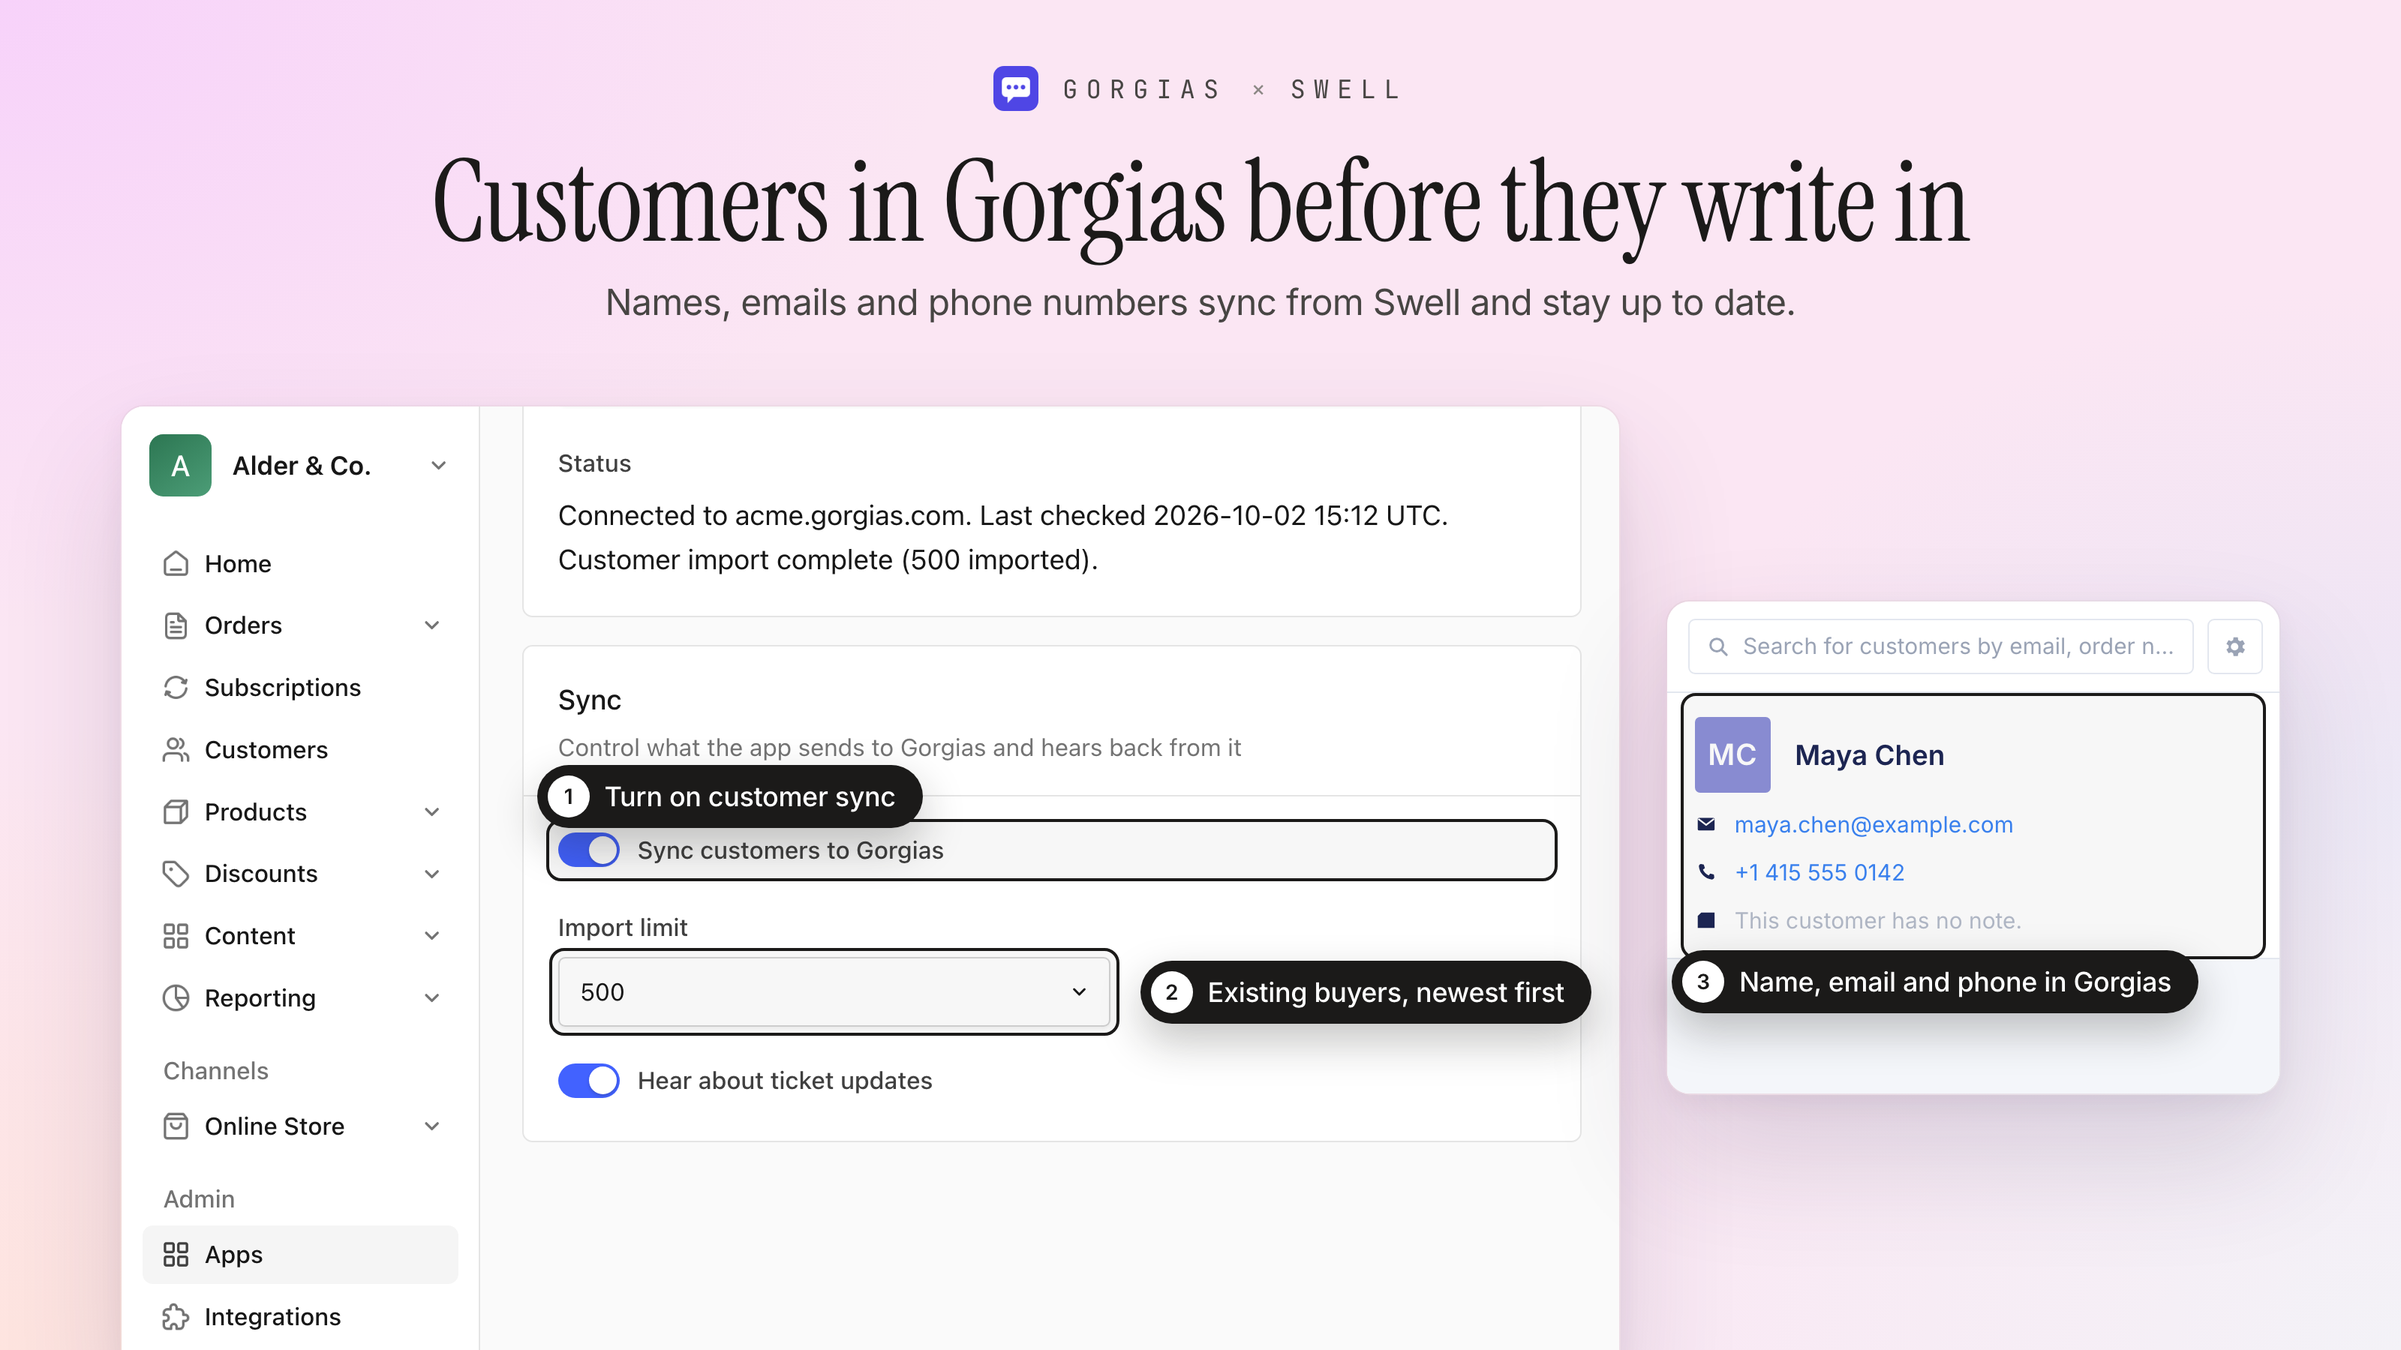
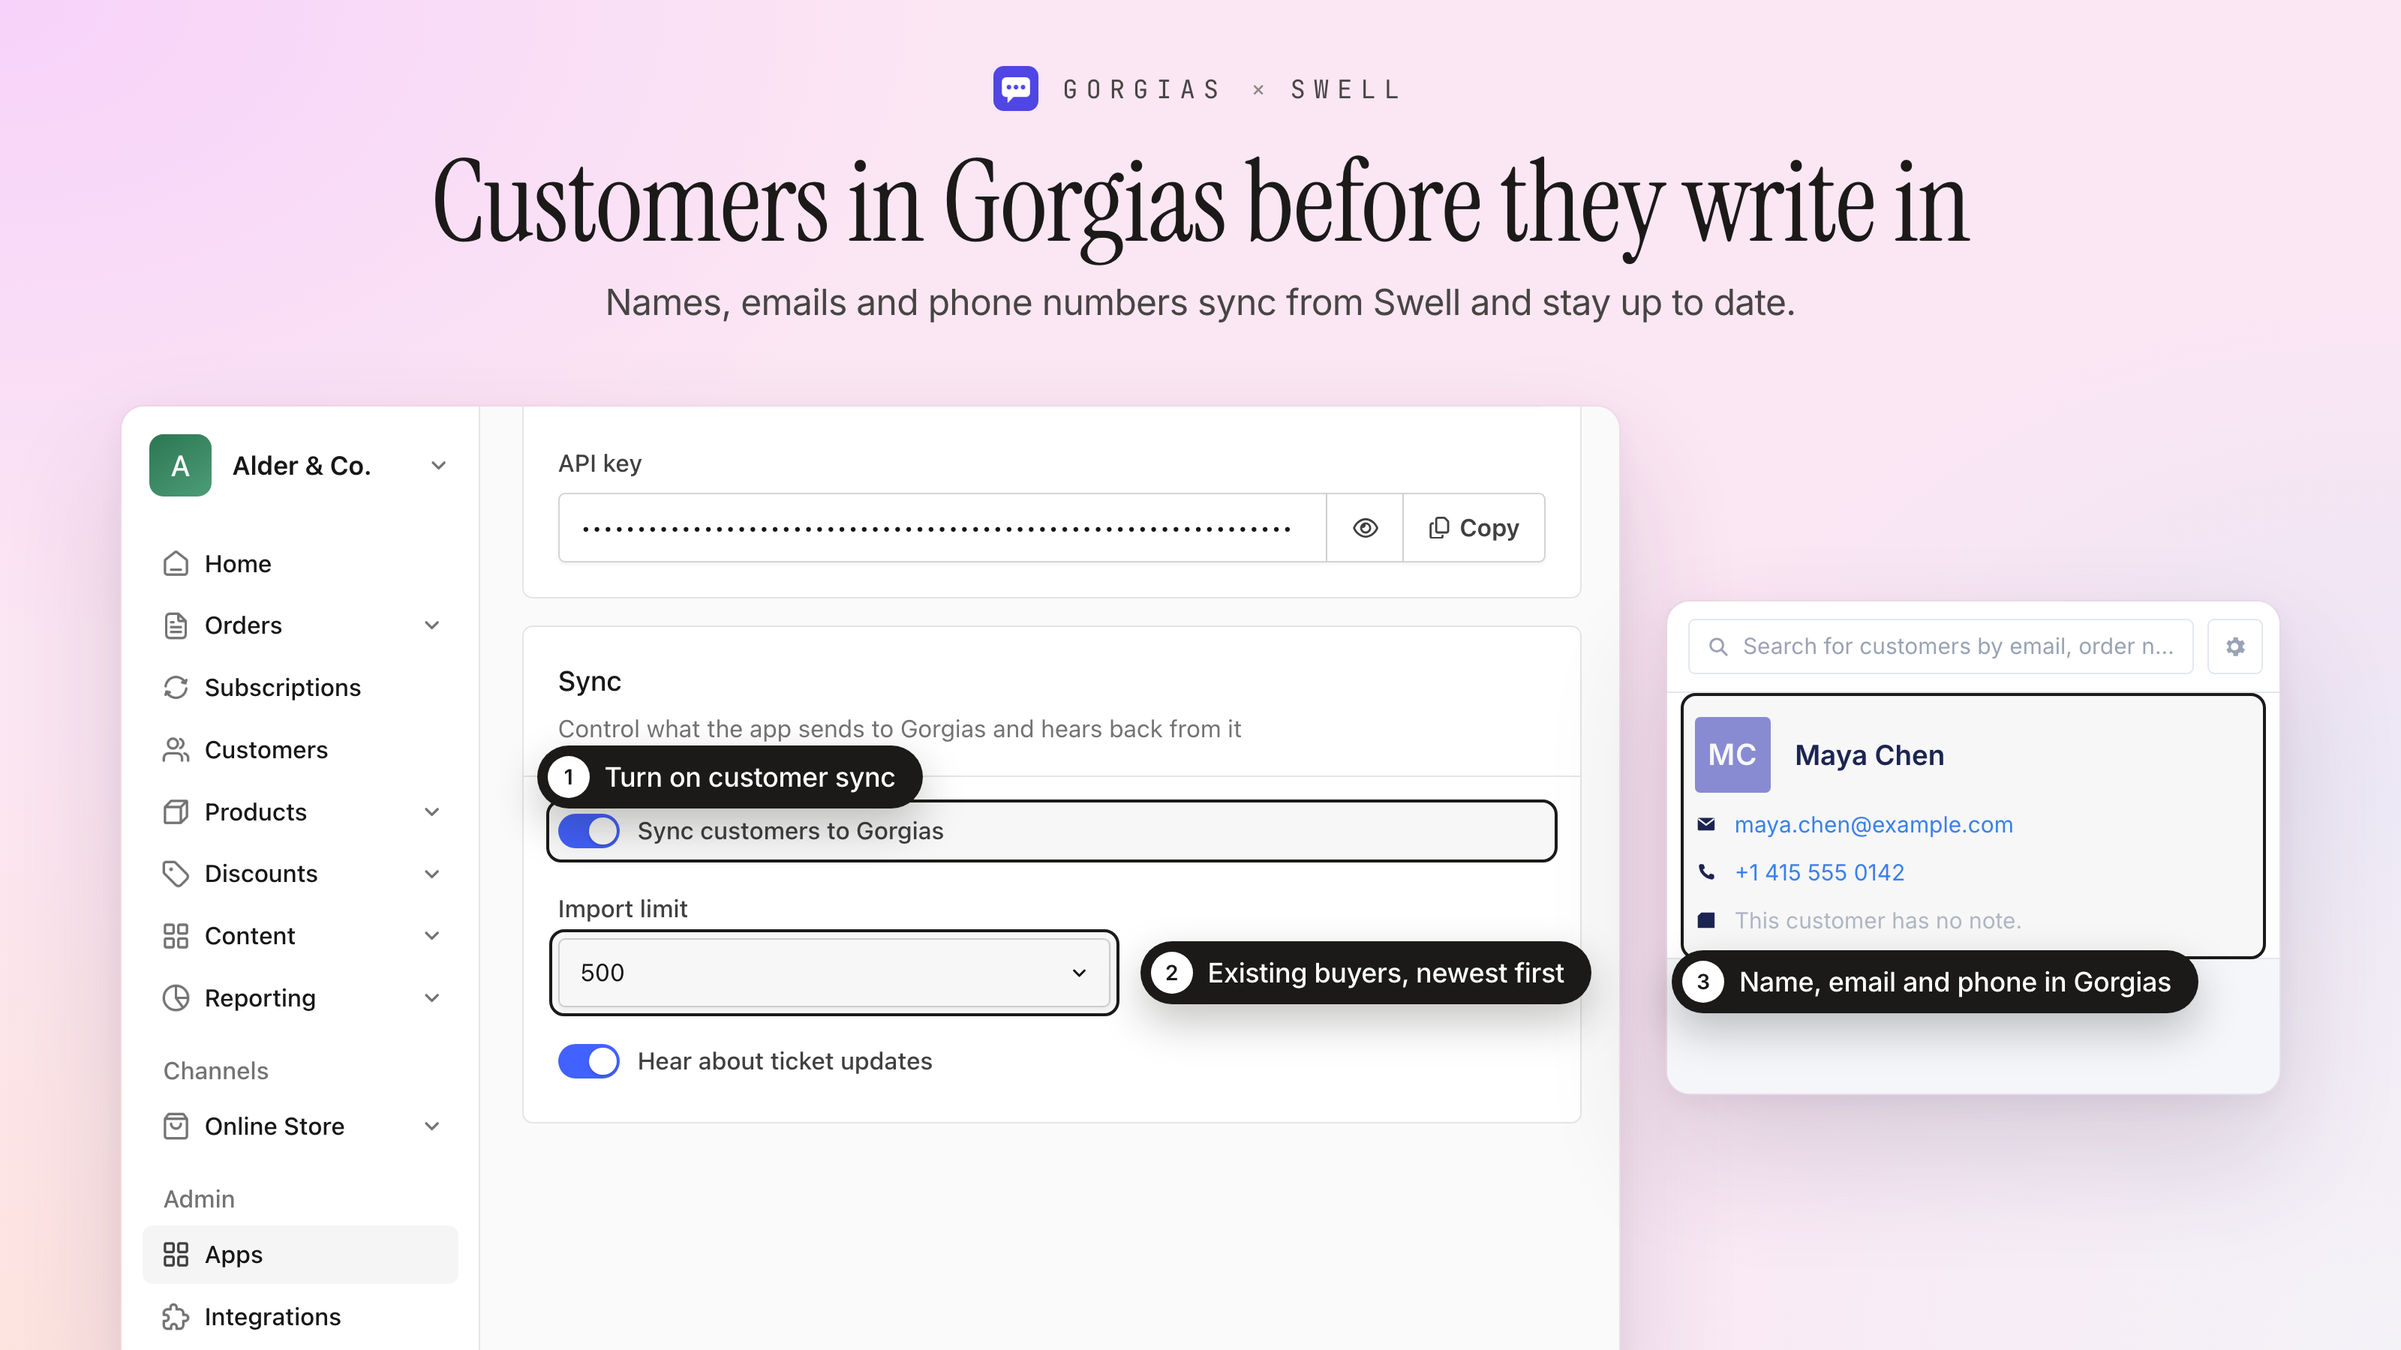
Remove the Status setting and redraw listing images 3 and 4 without it

Changed region(s): [[0.2188, 0.4978, 0.6875, 0.8089], [0.2188, 0.3422, 0.625, 0.4356]]

diff --git a/functions/lib/connect.ts b/functions/lib/connect.ts
@@ -1,8 +1,7 @@
 // Dashboard-driven connection: the merchant saves their Gorgias API key in the
 // app settings, and reconcile() (run every minute by functions/reconcile.ts)
 // provisions Gorgias when the settings change, re-checks the connection
-// hourly, keeps the customer import moving, and reports the outcome in the
-// read-only connection.status setting.
+// hourly and keeps the customer import moving.
 
 import { AppSecrets, SECRET_HEADER, appSecrets, sha256Hex } from './auth';
 import { GorgiasClient, GorgiasError, connectionFromSettings } from './gorgias';
@@ -14,9 +13,6 @@ const HEALTH_CHECK_MS = 60 * 60 * 1000;
 const RETRY_AFTER_ERROR_MS = 15 * 60 * 1000;
 const IMPORT_STALL_MS = 10 * 60 * 1000;
 
-const NOT_CONNECTED =
-  'Not connected. Enter your Gorgias subdomain, agent email and API key, then save.';
-
 export interface ReconcileResult {
   status: 'incomplete' | 'connected' | 'error';
   provisioned?: boolean;
@@ -26,10 +22,6 @@ export interface ReconcileResult {
 
 function elapsed(now: Date, date?: string | null): number {
   return date ? now.getTime() - Date.parse(date) : Infinity;
-}
-
-function formatTime(date: Date): string {
-  return `${date.toISOString().slice(0, 16).replace('T', ' ')} UTC`;
 }
 
 // The app public key differs per store and per environment, so a short hash of
@@ -50,26 +42,6 @@ export function describeError(err: unknown): string {
     return `Gorgias returned an error (${err.status})`;
   }
   return String((err as Error)?.message || err).slice(0, 200);
-}
-
-// Best effort: a failed status write must not stop the connection itself.
-// The settings record is addressed by its own id (the app's object id): the
-// platform only lets an app write its own settings without write_settings when
-// the path uses that id, not the app slug.
-async function writeStatus(
-  req: SwellRequest,
-  settings: SwellSettings,
-  status: string,
-): Promise<void> {
-  if (settings?.connection?.status === status) return;
-  const target = settings?.id || req.appId;
-  try {
-    await req.swell.put(`/settings/${target}/connection`, { status });
-  } catch (err) {
-    console.error(
-      `Could not write connection status to /settings/${target}: ${String(err)}`,
-    );
-  }
 }
 
 // Calls the sync route through the gateway. Fire-and-forget: the import chain
@@ -128,23 +100,6 @@ async function continueImport(
   return { state, phase: 'running' };
 }
 
-function connectedStatus(
-  state: ConnectionState,
-  importPhase: string,
-): string {
-  const checked = state.date_checked
-    ? ` Last checked ${formatTime(new Date(state.date_checked))}.`
-    : '';
-  const synced = state.backfill_synced || 0;
-  const imported =
-    importPhase === 'off'
-      ? ''
-      : importPhase === 'done'
-        ? ` Customer import complete (${synced} imported).`
-        : ` Customer import in progress (${synced} imported so far).`;
-  return `Connected to ${state.gorgias_account}.${checked}${imported}`;
-}
-
 export async function reconcile(
   req: SwellRequest,
   { force = false }: { force?: boolean } = {},
@@ -159,13 +114,12 @@ export async function reconcile(
   // is derived from them, so it stops being accepted at once.
   const connection = connectionFromSettings(settings);
   if (!connection) {
-    await writeStatus(req, settings, NOT_CONNECTED);
     return { status: 'incomplete' };
   }
   if (!req.publicKey) {
     const error =
       'This environment has no app public key, so Gorgias could not reach Swell. Reinstall the app.';
-    await writeStatus(req, settings, `Could not connect: ${error}`);
+    console.error(`Gorgias connection failed: ${error}`);
     return { status: 'error', error };
   }
 
@@ -209,7 +163,6 @@ export async function reconcile(
     elapsed(now, state.date_last_attempt) < RETRY_AFTER_ERROR_MS;
 
   if (!force && backingOff) {
-    await writeStatus(req, settings, `Could not connect: ${state.last_error}`);
     return { status: 'error', error: state.last_error || undefined };
   }
 
@@ -253,12 +206,10 @@ export async function reconcile(
         last_attempt_fingerprint: fingerprint,
         date_last_attempt: now.toISOString(),
       });
-      await writeStatus(req, settings, `Could not connect: ${error}`);
       return { status: 'error', error };
     }
   }
 
   const imported = await continueImport(req, settings, state, secrets, subdomain, now);
-  await writeStatus(req, settings, connectedStatus(imported.state, imported.phase));
   return { status: 'connected', provisioned, import: imported.phase };
 }

diff --git a/test/unit/connect.test.ts b/test/unit/connect.test.ts
@@ -24,14 +24,11 @@ function connected(settings: SwellData = {}) {
 describe('reconcile', () => {
   afterEach(() => vi.unstubAllGlobals());
 
-  it('asks for credentials when settings are incomplete', async () => {
+  it('stops when settings are incomplete', async () => {
     const { calls } = mockFetch();
-    const { swell, db } = createFakeSwell({ settings: { connection: {} } });
+    const { swell } = createFakeSwell({ settings: { connection: {} } });
     const result = await reconcile(createAppRequest({ swell }));
     expect(result.status).toBe('incomplete');
-    expect(db.settings.connection.status).toBe(
-      'Not connected. Enter your Gorgias subdomain, agent email and API key, then save.',
-    );
     expect(calls).toHaveLength(0);
   });
 
@@ -46,14 +43,19 @@ describe('reconcile', () => {
 
   it('reports a missing public key instead of provisioning', async () => {
     const { calls } = mockFetch();
-    const { swell, db } = connected();
+    const log = vi.spyOn(console, 'error').mockImplementation(() => {});
+    const { swell } = connected();
     const result = await reconcile(createAppRequest({ swell, publicKey: null }));
     expect(result.status).toBe('error');
-    expect(db.settings.connection.status).toMatch(/^Could not connect/);
+    expect(result.error).toMatch(/no app public key/);
+    expect(log).toHaveBeenCalledWith(
+      expect.stringMatching(/^Gorgias connection failed: .*no app public key/),
+    );
     expect(calls).toHaveLength(0);
+    log.mockRestore();
   });
 
-  it('connects on first run: provisions with a derived secret and reports status', async () => {
+  it('connects on first run: provisions with a derived secret', async () => {
     const { calls } = mockFetch();
     const { swell, db } = connected();
     const result = await reconcile(createAppRequest({ swell }));
@@ -65,7 +67,6 @@ describe('reconcile', () => {
       gorgias_account: 'acme.gorgias.com',
       last_error: null,
     });
-    expect(db.settings.connection.status).toMatch(/^Connected to acme\.gorgias\.com\./);
 
     gorgiasCalls(calls).forEach((c) => expect(c.headers.Authorization).toBe(BASIC_AUTH));
     const created = calls.find(
@@ -137,9 +138,7 @@ describe('reconcile', () => {
     const { swell, db } = connected();
     const result = await reconcile(createAppRequest({ swell }));
     expect(result.status).toBe('error');
-    expect(db.settings.connection.status).toBe(
-      'Could not connect: Gorgias rejected the agent email or API key (401)',
-    );
+    expect(result.error).toBe('Gorgias rejected the agent email or API key (401)');
 
     const retry = mockFetch();
     await reconcile(createAppRequest({ swell }));
@@ -201,19 +200,6 @@ describe('reconcile', () => {
     expect(kick.body).toEqual({ page: 4 });
   }, 20000);
 
-  it('writes the status to the settings record by its own id', async () => {
-    mockFetch();
-    const { swell } = connected({ id: '6aa81465935d8f001217ad00' });
-    await reconcile(createAppRequest({ swell }));
-    const statusWrites = swell.put.mock.calls
-      .map(([url]) => url)
-      .filter((url) => url.startsWith('/settings/'));
-    expect(statusWrites.length).toBeGreaterThan(0);
-    statusWrites.forEach((url) =>
-      expect(url).toBe('/settings/6aa81465935d8f001217ad00/connection'),
-    );
-  }, 20000);
-
   it('forgets old ids when switching helpdesks', async () => {
     mockFetch();
     const { swell, db } = connected();
@@ -247,18 +233,6 @@ describe('reconcile', () => {
     );
     const result = await reconcile(createAppRequest({ swell }));
     expect(result.status).toBe('error');
-    expect(db.settings.connection.status).toMatch(/deactivated in Gorgias/);
-  }, 20000);
-
-  it('keeps going when the status write fails', async () => {
-    mockFetch();
-    const { swell } = connected();
-    const put = swell.put.getMockImplementation()!;
-    swell.put.mockImplementation(async (url: string, data: SwellData) => {
-      if (url.startsWith('/settings/')) throw new Error('403 forbidden');
-      return put(url, data);
-    });
-    const result = await reconcile(createAppRequest({ swell }));
-    expect(result.status).toBe('connected');
+    expect(result.error).toMatch(/deactivated in Gorgias/);
   }, 20000);
 });

diff --git a/functions/lib/gorgias.ts b/functions/lib/gorgias.ts
@@ -319,7 +319,7 @@ export function hasConnection(settings: SwellSettings): boolean {
 
 // Rejected credentials are a configuration problem, not a transient failure:
 // event handlers skip instead of throwing, so the platform doesn't retry and
-// eventually auto-disable them. reconcile() reports it in the status.
+// eventually auto-disable them. reconcile() logs it and keeps it as the last error.
 export function isAuthError(err: unknown): boolean {
   return (
     err instanceof GorgiasError && (err.status === 401 || err.status === 403)

diff --git a/README.md b/README.md
@@ -11,7 +11,6 @@ A Swell integration app that connects a Swell store to the [Gorgias](https://www
 ```
 Merchant saves settings ──► reconcile (cron, every minute)
                               ├─► Gorgias HTTP integration "Swell" + ticket sidebar widget
-                              ├─► connection.status setting ("Connected to acme.gorgias.com …")
                               └─► sync (self-chaining import of existing customers)
 
 Swell account/order events ──► sync-customer ──► Gorgias customer (upsert by external_id / email)
@@ -29,7 +28,7 @@ An OAuth "Connect" flow was built and set aside: it needs a Gorgias partner app,
 
 | Function | Trigger | Purpose |
 | --- | --- | --- |
-| [`reconcile`](functions/reconcile.ts) | Cron, every minute | Connects when the connection settings change (credential check, then create or update the integration and widget), re-checks the connection hourly, keeps the customer import moving and writes the result to the `connection.status` setting. Backs off for 15 minutes after a failure unless the settings change. Idle runs make two reads. |
+| [`reconcile`](functions/reconcile.ts) | Cron, every minute | Connects when the connection settings change (credential check, then create or update the integration and widget), re-checks the connection hourly and keeps the customer import moving. Backs off for 15 minutes after a failure unless the settings change. Idle runs make two reads. |
 | [`connect`](functions/connect.ts) | Route (`POST`, secret key required) | Runs `reconcile` immediately. A developer tool: `swell api post /functions/gorgias/connect`. |
 | [`gorgias-events`](functions/gorgias-events.ts) | Public route (`POST`), called by Gorgias | Matches the ticket's customer to a Swell account (by `external_id`, then email), returns the sidebar payload, and records up to 20 recent tickets on the account. Must respond within Gorgias's 5-second limit. |
 | [`sync`](functions/sync.ts) | Public route (`POST`), called by the app | Syncs one account (`{ "account_id" }`), or imports customers with orders, newest buyers first, 2 per invocation, chaining to the next page until the import limit. Progress is saved after every batch. |
@@ -37,7 +36,7 @@ An OAuth "Connect" flow was built and set aside: it needs a Gorgias partner app,
 
 Shared code lives in [`functions/lib/`](functions/lib):
 
-- `connect.ts`: the reconcile logic, status text and the self-call to `sync`.
+- `connect.ts`: the reconcile logic and the self-call to `sync`.
 - `auth.ts`: header secret check, the secrets derived from the API key, and hashing.
 - `state.ts`: the single `connections` record (Gorgias ids, connection health, import progress).
 - `gorgias.ts`: the Gorgias REST client and connection settings. It spaces requests to stay under Gorgias's limit of 40 requests per 20 seconds, retries 429s using `Retry-After`, follows 301 redirects for merged customers and pages through list endpoints.
@@ -69,7 +68,6 @@ Shared code lives in [`functions/lib/`](functions/lib):
 | `subdomain` | The `acme` in `acme.gorgias.com` (a pasted `acme.gorgias.com` or helpdesk URL also works) |
 | `email` | Email of the Gorgias agent who owns the API key |
 | `api_key` | Gorgias REST API key (Gorgias → Settings → You → REST API) |
-| `status` | Read-only, written by `reconcile` |
 
 **Sync** (`sync`)
 
@@ -84,8 +82,7 @@ Shared code lives in [`functions/lib/`](functions/lib):
 1. Install the app on your Swell store.
 2. In Gorgias, open **Settings → You → REST API** and copy your API key.
 3. In Swell, open **Apps → Gorgias → Settings**, fill in **Gorgias connection** (subdomain, agent email, API key) and save. Turn on **Sync customers to Gorgias** if you want customers created in Gorgias.
-4. Within about a minute, reload the settings page: **Status** reads "Connected to acme.gorgias.com". If it reads "Could not connect", it says why.
-5. Open a ticket from a Swell customer in Gorgias. The **Swell** card and the customer's recent orders appear in the sidebar.
+4. Within about a minute, open a ticket from a Swell customer in Gorgias. The **Swell** card and the customer's recent orders appear in the sidebar.
 
 Changing a connection setting or the ticket-updates toggle re-provisions the existing "Swell" integration and widget on the next run rather than creating duplicates.
 

diff --git a/DESCRIPTION.md b/DESCRIPTION.md
@@ -12,4 +12,4 @@ When a ticket comes in or changes, Gorgias checks with your store. The app match
 
 **Secured without extra setup.** The app derives the secret for the calls between Gorgias and your store from your API key, so there's nothing else to create or copy, and changing or removing the key revokes it.
 
-Setup takes a few minutes. Copy your REST API key from Gorgias (Settings → You → REST API), enter it in the app settings with your Gorgias subdomain and the email of the agent it belongs to, and save. Within about a minute the settings page shows that you're connected, and the next ticket from a Swell customer opens with their orders in the sidebar.
+Setup takes a few minutes. Copy your REST API key from Gorgias (Settings → You → REST API), enter it in the app settings with your Gorgias subdomain and the email of the agent it belongs to, and save. The app connects within about a minute, and the next ticket from a Swell customer opens with their orders in the sidebar.
